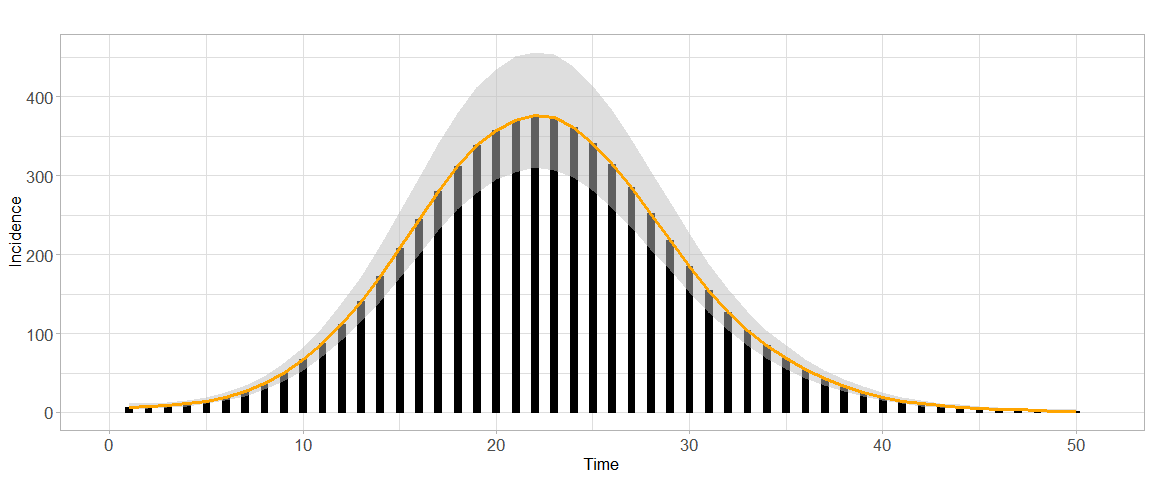
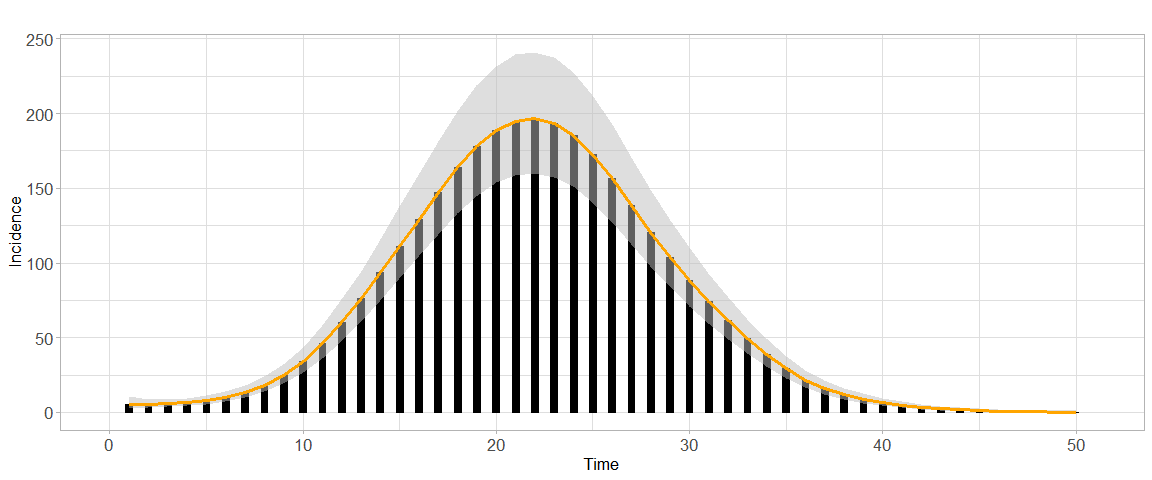
Update meta-information

diff --git a/README.md b/README.md
@@ -5,7 +5,7 @@ Oswaldo Gressani
 
 <!-- Introduce badges -->
 
-![Version](https://img.shields.io/badge/Version-1.0.6-lightgrey)
+![Version](https://img.shields.io/badge/Version-1.0.7-lightgrey)
 ![Languages](https://img.shields.io/badge/Languages-R%2C%20C%2B%2B-informational)
 ![Lifecycle](https://img.shields.io/badge/lifecycle-postexperimental-yellow)
 ![CodeSize](https://img.shields.io/github/languages/code-size/oswaldogressani/EpiLPS?color=orange&label=Code%20size&style=plastic)
@@ -120,9 +120,9 @@ The simulated incidence count data can be accessed by typing:
 simepi$y
 ```
 
-    ##  [1]  10   4   7   8  21  15  25  35  58  66  82 115 147 165 195 258 291 299 349
-    ## [20] 354 354 386 376 356 359 302 275 256 227 190 150 122 102  88  68  55  37  40
-    ## [39]  24  21  12  12   4   8   7   4   4   1   4   0
+    ##  [1]  10   4   2   5  10  10  15  13  32  31  44  68  69 102 104 130 151 148 201
+    ## [20] 175 196 197 198 172 183 169 121 129  96  93  73  58  53  41  29  26   9  10
+    ## [39]  11   9   4   3   1   3   1   0   2   0   0   0
 
 The `epilps()` routine can be used to fit the epidemic data. By default,
 the LPSMAP approach is used with 30 B-splines in the interval $[1;50]$
@@ -135,9 +135,9 @@ epifit_LPSMAP <- epilps(incidence = simepi$y, serial_interval = si, tictoc = TRU
 
     ## Inference method chosen: LPSMAP. 
     ## CI for LPSMAP computed via lognormal posterior approx. of Rt.Total number of days: 50. 
-    ## Mean Rt discarding first 7 days: 0.996.
-    ## Mean 95% CI of Rt discarding first 7 days: (0.891,1.129) 
-    ## Elapsed real time (wall clock time): 0.18 seconds.
+    ## Mean Rt discarding first 7 days: 0.951.
+    ## Mean 95% CI of Rt discarding first 7 days: (0.816,1.149) 
+    ## Elapsed real time (wall clock time): 0.16 seconds.
 
 ``` r
 plot(epifit_LPSMAP)
@@ -172,13 +172,13 @@ knitr::kable(epifit_LPSMAP$epifit[8:14,2:4])
 
 |     |  R_estim | R95CI_low | R95CI_up |
 |:----|---------:|----------:|---------:|
-| 8   | 2.259382 |  1.944734 | 2.624938 |
-| 9   | 2.289891 |  2.013896 | 2.603711 |
-| 10  | 2.253986 |  2.011870 | 2.525240 |
-| 11  | 2.168438 |  1.967785 | 2.389551 |
-| 12  | 2.059429 |  1.887723 | 2.246753 |
-| 13  | 1.947241 |  1.803403 | 2.102551 |
-| 14  | 1.842764 |  1.717211 | 1.977498 |
+| 8   | 2.075027 |  1.683394 | 2.557772 |
+| 9   | 2.206379 |  1.838787 | 2.647456 |
+| 10  | 2.261637 |  1.923711 | 2.658926 |
+| 11  | 2.241810 |  1.952498 | 2.573991 |
+| 12  | 2.158756 |  1.908214 | 2.442194 |
+| 13  | 2.031592 |  1.823449 | 2.263495 |
+| 14  | 1.887389 |  1.709116 | 2.084258 |
 
 A smooth estimate of the epidemic curve can be obtained with the code
 below. The option `epicol` controls the color of the curve and

diff --git a/NEWS.md b/NEWS.md
@@ -32,3 +32,4 @@
 
 * Version name: "Thunderlight"
 * Added epicurve() routine to plot the epidemic curve based on incidence data.
+* Added minor changes to plot outputs.
